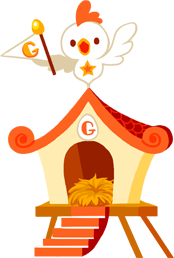
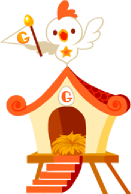
modify img size not to set scale each sprite

diff --git a/src/Screen/Charactor/Player.js b/src/Screen/Charactor/Player.js
@@ -5,7 +5,6 @@ var Player = (function Player() {
     var acions = {};
 
     // private constant
-    my.SCALE = 0.4;
     my.FRAME = 0.07;
 
     that.initByObjectData = function initByObjectData(imgName, objectData) {
@@ -13,6 +12,7 @@ var Player = (function Player() {
             x : parseInt(objectData.player.x),
             y : parseInt(objectData.player.y),
         };
+        console.log('x: ' + initialPosition.x + ' y: ' + initialPosition.y);
         return that.init(imgName, initialPosition);
     };
 
@@ -20,9 +20,8 @@ var Player = (function Player() {
     that.init = function init(imgName, initialPosition) {
 
         var player = Charactor.init(imgName, initialPosition);
-        player.width = poipoi.player.width;
-        player.height = poipoi.player.height;
-        player.scale(my.SCALE);
+        player.width  = poipoi.PLAYER.WIDTH;
+        player.height = poipoi.PLAYER.HEIGHT;
         
         player.on(enchant.Event.ENTER_FRAME, function() {
             player.frame += my.FRAME;
@@ -31,16 +30,6 @@ var Player = (function Player() {
         // set public methods
         return _.extend(player, {
             doAction   : _.bind(my.doAction      , player),
-            /*
-            go         : _.bind(actions.go       , player),
-            back       : _.bind(actions.back     , player),
-            jump       : _.bind(actions.jump     , player),
-            backjump   : _.bind(actions.backjump , player),
-            down       : _.bind(actions.down     , player),
-            end        : _.bind(actions.end      , player),
-            notClear   : _.bind(actions.notClear , player),
-            clear      : _.bind(actions.clear    , player),
-           */
         });
     };
 

diff --git a/src/poipoi.js b/src/poipoi.js
@@ -44,7 +44,7 @@ var poipoi = (function(){
         'enemy'                 : that.imgDir.chara + 'enemy.png',
         'clear'                 : that.imgDir.clearMessage + 'clear.png',
         'not_clear'             : that.imgDir.clearMessage + 'not_clear.png',
-        'goal'                  : that.imgDir.gameScene + 'goal.gif',
+        'goal'                  : that.imgDir.gameScene + 'goal.png',
         'tutorial_back'         : that.imgDir.gameScene + 'tutorial_back.png',
         'finger'                : that.imgDir.poipoiBoard + 'finger.png',
         'borderHorizon'         : that.imgDir.poipoiBoard + 'border_horizon.png',
@@ -88,9 +88,9 @@ var poipoi = (function(){
 		OFFSET_Y     : 30,
 	};
 
-    that.player = {
-		width       : 200,
-		height      : 215,
+    that.PLAYER = {
+		WIDTH       : 80,
+		HEIGHT      : 86.4,
     };
 
     that.ENEMY = {
@@ -99,8 +99,8 @@ var poipoi = (function(){
     };
 
     that.GOAL = {
-        WIDTH       : 175,
-        HEIGHT      : 255,
+        WIDTH       : 130.5,
+        HEIGHT      : 193.5,
     };
 
     that.SCREEN = {

diff --git a/src/Screen/Charactor/Goal.js b/src/Screen/Charactor/Goal.js
@@ -23,9 +23,8 @@ var Goal = (function Goal() {
     my.initialize = function initialize(imgName, initialPosition) {
         this.width = poipoi.GOAL.WIDTH;
         this.height = poipoi.GOAL.HEIGHT;
-        this.scale(0.75);
         // TODO もっとよい座標の取り方考えるべき
-        this.moveTo(initialPosition.x, initialPosition.y - poipoi.GOAL.HEIGHT + poipoi.player.height - poipoi.MAP.TILE_HEIGHT);
+        this.moveTo(initialPosition.x, initialPosition.y - poipoi.GOAL.HEIGHT + poipoi.PLAYER.HEIGHT);
     };
 
     return that;

diff --git a/src/Screen/Charactor/Charactor.js b/src/Screen/Charactor/Charactor.js
@@ -28,8 +28,8 @@ var Charactor = (function Charactor() {
     my.initialize = function initialize(imgName, initialPosition) {
         var game = enchant.Game.instance;
         this.image = game.assets[poipoi.imgPaths[imgName]];
-        this.originX = 0;
-        this.originY = 0;
+        //this.originX = 0;
+        //this.originY = 0;
         this.moveTo(initialPosition.x, initialPosition.y);
     };
 
